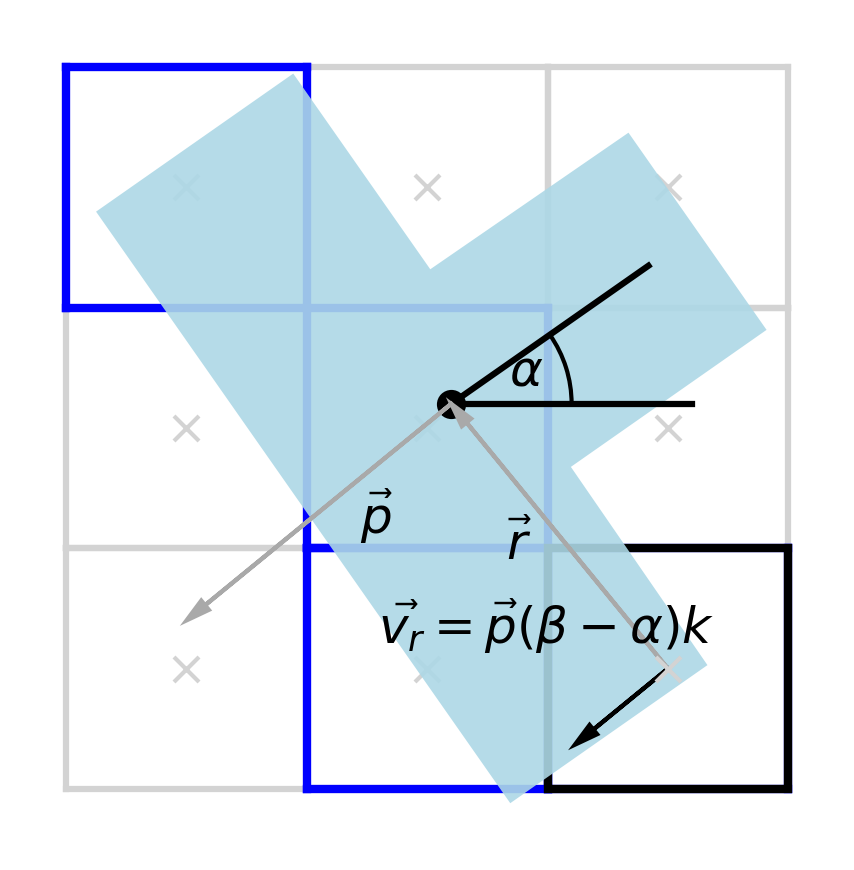
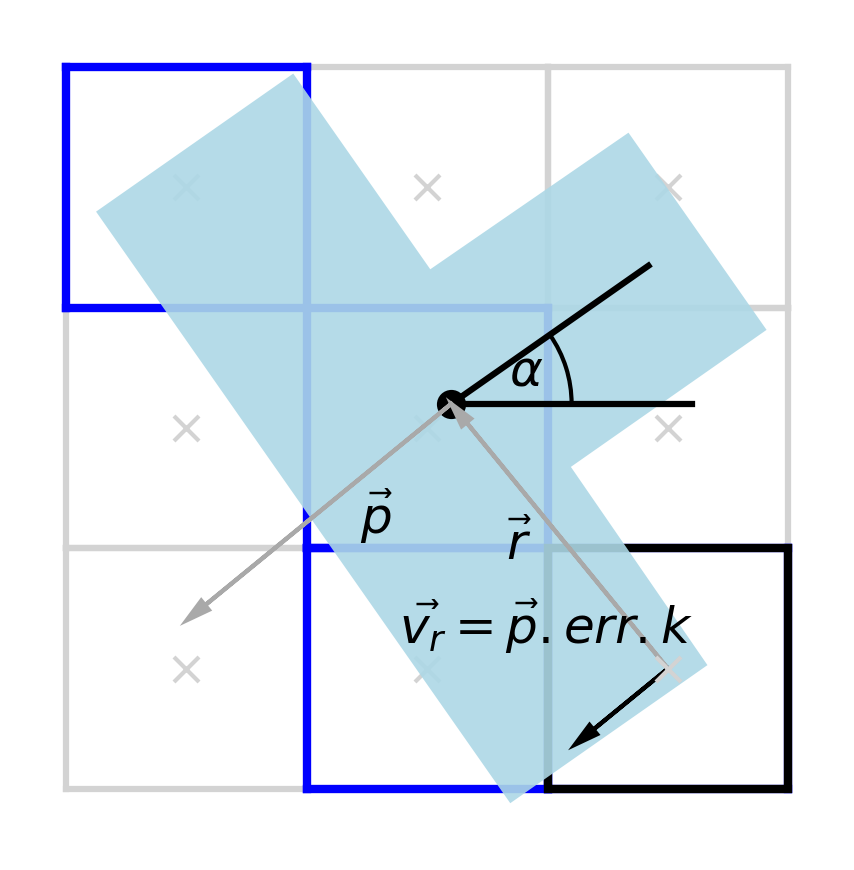
rotation pic

Changed region(s): [[0.4262, 0.6828, 0.822, 0.7448]]

diff --git a/Visuals/Figures_paper.py b/Visuals/Figures_paper.py
@@ -415,7 +415,7 @@ def figure_rotation_vector():
     unitary_perpendicular = (
         unitary_perpendicular[0]*0.5, unitary_perpendicular[1]*0.5)
 
-    text = f'$\\vec{{v_r}} = \\vec{{p}} (\\beta - \\alpha) k$'
+    text = f'$\\vec{{v_r}} = \\vec{{p}}.err.k$'
 
     draw_arrow(example_tile[0], example_tile[1], example_tile[0] + unitary_perpendicular[0],
                example_tile[1] + unitary_perpendicular[1], 'black', text=text, delta_x=-0.35, delta_y=0.3)
@@ -737,8 +737,8 @@ if __name__ == '__main__':
     #figure_environment()
     #figure_trajectory()
     #figure_translation_vector()
-    #figure_rotation_vector()
+    figure_rotation_vector()
     #figure_resolution()
     
-    figure_experiment_resolution()
-    figure_results_faulty()
+    #figure_experiment_resolution()
+    #figure_results_faulty()

diff --git a/Simulator.py b/Simulator.py
@@ -251,11 +251,9 @@ class Simulator:
               
     def handle_keyboard_input(self):
         for event in pygame.event.get():
-            #if space is pressed, the game is paused
             if event.type == pygame.KEYDOWN:
                 if event.key == pygame.K_SPACE:
                     self.pause = not self.pause
-                    # write pause on the screen
                     if self.pause:
                         pygame.display.set_caption("Pause")
                     else:
